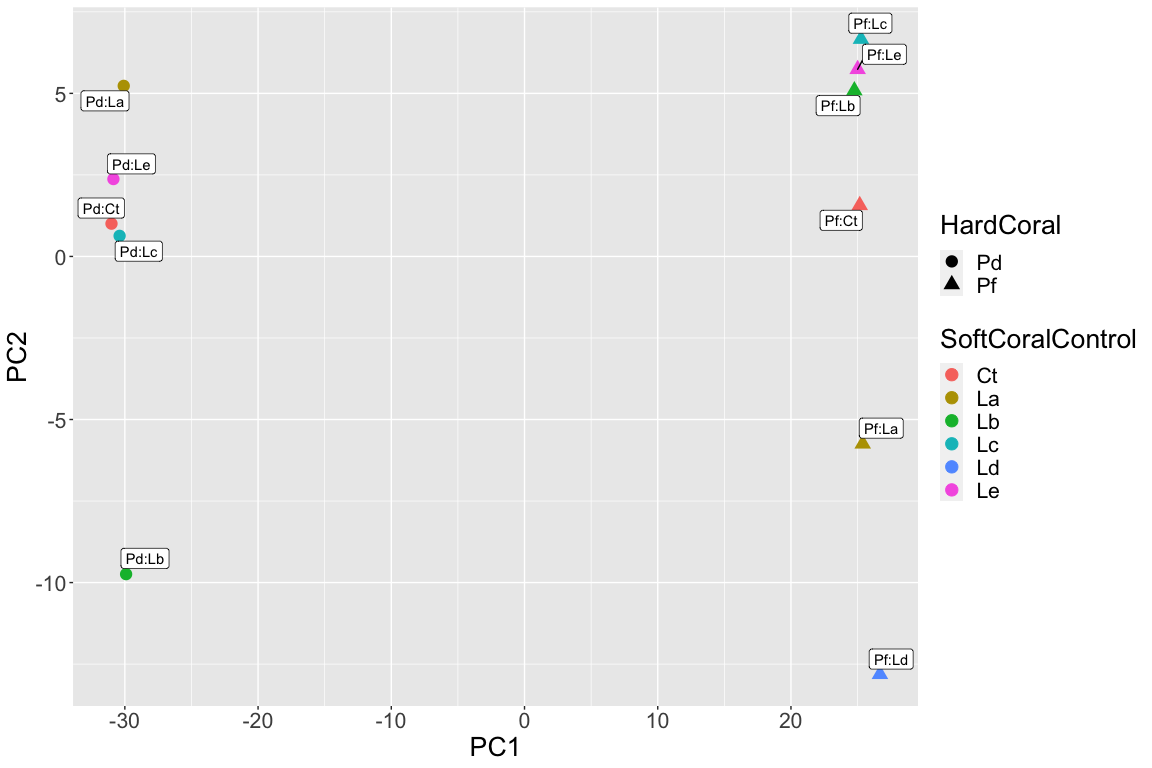
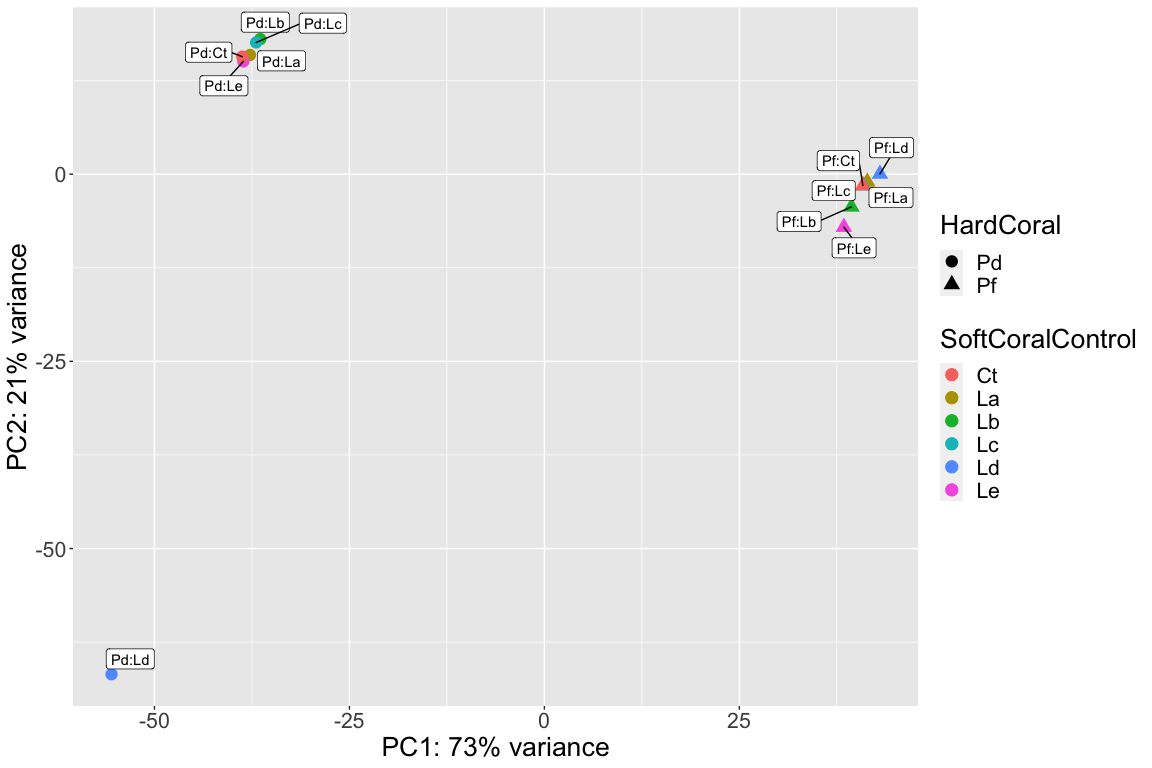
Update 02_deseq to model used for thesis chapter

diff --git a/02_deseq.md b/02_deseq.md
@@ -1,5 +1,7 @@
 DESeq analysis
 ================
+Natalia Andrade and Ira Cooke
+07/08/2017
 
 Counts obtained from Corset were analysed with DESeq to identify
 differentially expressed genes between HardCoral treatments.
@@ -8,30 +10,59 @@ Initial data exploration with PCA revealed that PdLd is an extreme
 outlier. We therefore excluded this sample from further analysis
 
 Differential Expression Analysis with the outlier excluded was then
-performed based on a model including the treatment, HardCoral and their
-interaction
+performed based on a model with no intercept and a separate coefficient
+for each level of the variable `HardCoralTrt`. This model gives us
+maximum flexibility for statistical testing using different contrasts.
 
-> ~ treat\*HardCoral
+> \~ 0+HardCoralTrt
 
-    ## [1] "Intercept"          "treat_T_vs_C"      
-    ## [3] "HardCoral_Pf_vs_Pd" "treatT.HardCoralPf"
+    ## [1] "HardCoralTrtPd_C" "HardCoralTrtPd_T" "HardCoralTrtPf_C"
+    ## [4] "HardCoralTrtPf_T"
 
-![](02_deseq_files/figure-gfm/unnamed-chunk-2-1.png)<!-- -->
-
-For genes differentially expressed between control and treatment we plot
-raw values as scatterplots
-
-![](02_deseq_files/figure-gfm/unnamed-chunk-3-1.png)<!-- -->
-
-Now plot raw data as heatmaps. For this the relative change in
-expression is plotted (relative to the mean for a gene) so that
-clustering is meaningful
+Before proceeding with contrasts we first check a PCA with the outlier
+excluded. This shows very clearly that Porites genotype is the dominant
+source of variation in the data, accounting for 89%. PC2 accounts for
+just 5% of variation and captures differences due to the competing
+Lobophytum colony and whether competition exists at all (Control).
 
 ![](02_deseq_files/figure-gfm/unnamed-chunk-4-1.png)<!-- -->
 
-Plot a heatmap for genes with significant interactions. This is
-interesting because it seems to indicate that there are many genes where
-Pf upregulates the gene in interaction relative to control whereas Pd
-does not.
+To set up contrasts we first use `resultsNames()` to extract a list of
+fitted coefficients in the model
 
-![](02_deseq_files/figure-gfm/unnamed-chunk-5-1.png)<!-- -->
+    ## [1] "HardCoralTrtPd_C" "HardCoralTrtPd_T" "HardCoralTrtPf_C"
+    ## [4] "HardCoralTrtPf_T"
+
+Based on this we formulate the contrasts;
+
+1.  `contrast_ct <- c(1,-1,1,-1)` which captures genes consistently
+    different between treatment and control across both Porites colonies
+2.  `contrast_pd <- c(1,-1,0,0)` capturing genes DE between treatment
+    and control for `Pd` only
+3.  `contrast_pf <- c(0,0,1,-1)` capturing genes DE between treatment
+    and control for `Pf` only
+
+For the top genes differentially expressed between control and treatment
+we plot raw values as scatterplots. This is just to give a feel for how
+strong these candidates are when looking at the raw data directly.
+
+Scanning through these plots I can see quite a few genes with consistent
+differences between both controls and the treatment values … BUT ..
+there are others where the change seems to be driven by a strong change
+in just one of the controls (usually Pf). This also seems to emerge from
+looking at the heatmap (see below).
+
+![](02_deseq_files/figure-gfm/unnamed-chunk-7-1.png)<!-- -->
+
+Now a heatmap for all the DE genes between treatment and control. For
+this the relative change in expression is plotted (relative to the mean
+for a gene) so that clustering is meaningful. The clusters reveal some
+interesting patterns (not sure if worth writing about but interesting).
+There is a big cluster where the Pf control has higher expression. There
+are also clusters driven by higher expression in a few specific
+interactions (PfLa, PfLc, PdLb) for one cluster .. and (PdLa, PdLe,
+PfLc) for the other. It would be fascinating if this was also evident in
+the behavioural data. Other clusters are driven by an overall higher
+expression in Pd vs Pf (bottom small cluster).
+
+![](02_deseq_files/figure-gfm/unnamed-chunk-8-1.png)<!-- -->
